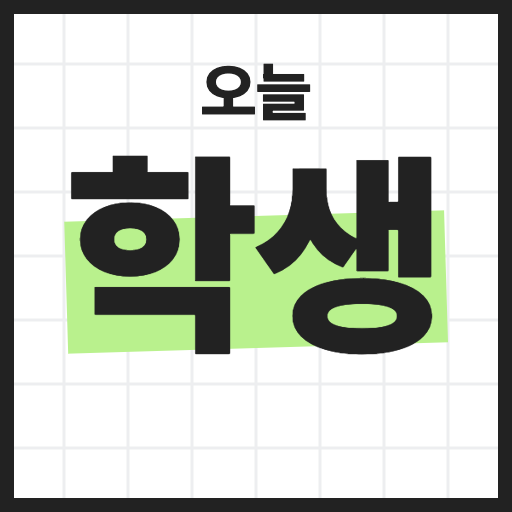
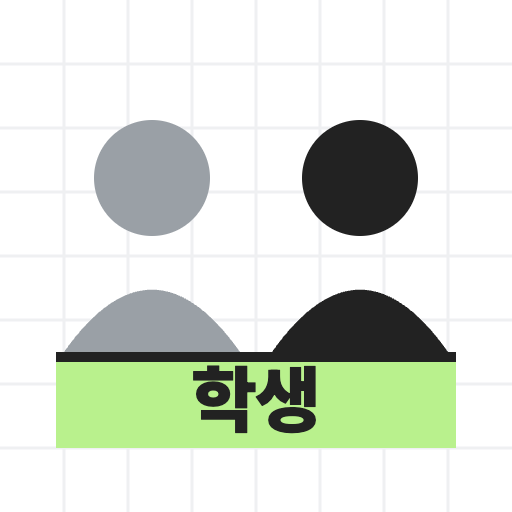
v5.3: 앱 아이콘 확정(B안 마주 앉기) + PWA 매니페스트
- 아이콘: 사람 둘이 마주 앉은 구도, 주인공만 먹색(선생=왼쪽/학생=오른쪽), 연두 책상바가 이름표 역할('선생'/'학생')
- manifest-teacher/student.json: 앱 이름 오늘선생·오늘학생, standalone, 테마색 — 홈 화면 추가 시 이름·아이콘 정상 표시

diff --git a/index.html b/index.html
@@ -6,6 +6,11 @@
 <title>오늘선생</title>
 <link rel="icon" type="image/png" href="icon-teacher.png">
 <link rel="apple-touch-icon" sizes="180x180" href="icon-teacher.png">
+<link rel="manifest" href="manifest-teacher.json">
+<meta name="apple-mobile-web-app-capable" content="yes">
+<meta name="apple-mobile-web-app-status-bar-style" content="default">
+<meta name="apple-mobile-web-app-title" content="오늘선생">
+<meta name="theme-color" content="#222222">
 <link rel="stylesheet" href="https://cdn.jsdelivr.net/gh/orioncactus/pretendard@v1.3.9/dist/web/variable/pretendardvariable-dynamic-subset.min.css">
 <script>
 // Apply saved theme before first paint to avoid flash
@@ -1129,7 +1134,7 @@ input[type="checkbox"] { width: 13px; height: 13px; cursor: pointer; flex-shrink
           </div>
         </div>
         <button class="t-btn t-btn-g t-btn-sm" onclick="v3GemTest()">연결 테스트</button>
-        <div style="font-size:.72rem;color:#777777;margin-top:.5rem">키를 넣으면 문제지·자료 탭의 [새 문제지]에서 <b>Gemini로 문제 만들기</b>가 활성화됩니다. 모델은 자동 선택 (무료 한도로 충분). 문제가 생기면 [연결 테스트] 결과를 알려주세요. <span style="color:#B9BCC2">앱 버전 v5.2 (새 버전 자동 감지)</span></div>
+        <div style="font-size:.72rem;color:#777777;margin-top:.5rem">키를 넣으면 문제지·자료 탭의 [새 문제지]에서 <b>Gemini로 문제 만들기</b>가 활성화됩니다. 모델은 자동 선택 (무료 한도로 충분). 문제가 생기면 [연결 테스트] 결과를 알려주세요. <span style="color:#B9BCC2">앱 버전 v5.3 (새 버전 자동 감지)</span></div>
       </div>
 
       <!-- 기존 과외 앱에서 데이터 이전 -->
@@ -2521,7 +2526,7 @@ document.getElementById('v2-q-modal').addEventListener('click',function(e){if(e.
 document.getElementById('tutor-overlay').appendChild(document.getElementById('v2-q-modal'));
 
 /* ══ v3: Gemini 문제 생성 + 오답 연계 ══ */
-var APP_VER='5.2';
+var APP_VER='5.3';
 /* 공통수학2 목차 (Dashboard/공통수학2-목차.md — RPM에서 추출) */
 var CURRICULUM={
  'Ⅰ. 도형의 방정식':{

diff --git a/student.html b/student.html
@@ -6,6 +6,11 @@
 <title>오늘학생</title>
 <link rel="icon" type="image/png" href="icon-student.png">
 <link rel="apple-touch-icon" sizes="180x180" href="icon-student.png">
+<link rel="manifest" href="manifest-student.json">
+<meta name="apple-mobile-web-app-capable" content="yes">
+<meta name="apple-mobile-web-app-status-bar-style" content="default">
+<meta name="apple-mobile-web-app-title" content="오늘학생">
+<meta name="theme-color" content="#222222">
 <link rel="stylesheet" href="https://cdn.jsdelivr.net/gh/orioncactus/pretendard@v1.3.9/dist/web/variable/pretendardvariable-dynamic-subset.min.css">
 <style>
 
@@ -299,7 +304,7 @@ input:focus,textarea:focus{outline:none;border-color:var(--ink)}
 <script src="https://cdn.jsdelivr.net/npm/@supabase/supabase-js@2/dist/umd/supabase.min.js"></script>
 <script>
 /* ═══ 버전 · 자동 업데이트 ═══ */
-var APP_VER='5.1';
+var APP_VER='5.2';
 (function(){
   fetch(location.pathname+'?vchk='+Date.now(),{cache:'no-store'}).then(function(r){return r.text()}).then(function(t){
     var m=t.match(/APP_VER='([\d.]+)'/);
